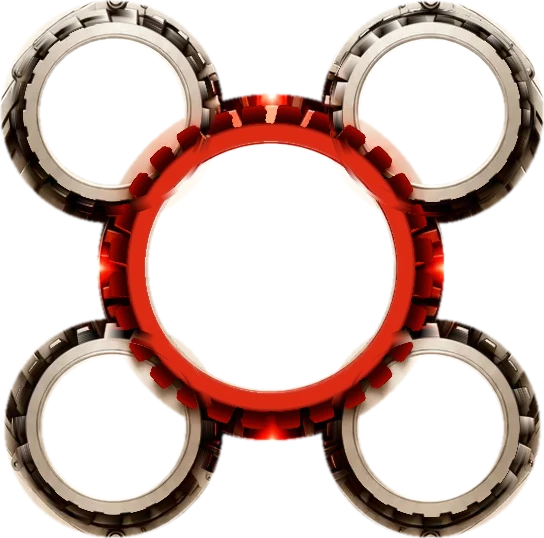
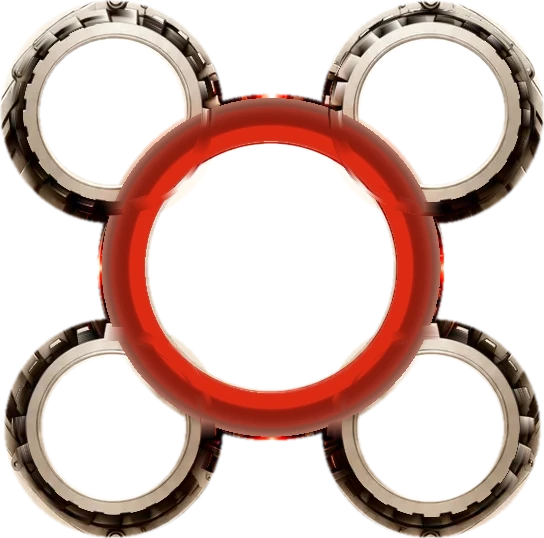
Machine artwork: clean faint smudges beside the pipes
The background removal left near-transparent specks beside the machine,
which showed as faint pale smudges inside the input and output pipes on
a light page. The pipeline now drops near-transparent, non-red pixels
clear of the machine's solid parts (the red pipe glow is kept), and the
desktop and mobile body layers are rebuilt.

Claude-Session: https://claude.ai/code/session_01PbAnrJaT2h2NzokuXUFqJZ

Changed region(s): [[0.1875, 0.1784, 0.8125, 0.8327]]

diff --git a/tools/machine/build_machine.py b/tools/machine/build_machine.py
@@ -577,7 +577,18 @@ def build(kind, cfg):
     # unpremultiply against the backdrop so the cut-out reproduces the art on cream
     F = np.where(A[..., None] > 1e-3, (clean - (1 - A[..., None]) * B) / np.maximum(A[..., None], 1e-3), 0)
     F = np.where((A[..., None] > 0.97), clean, F)
-    body = np.dstack([np.clip(F, 0, 255), A * 255])
+
+    # haze: where the backdrop estimate missed, near-transparent specks
+    # survive beside the machine and read as faint smudges on a light page.
+    # Drop them where they are clear of the machine's solid parts; the red
+    # glow round the pipes (strongly red) is kept.
+    Fc = np.clip(F, 0, 255)
+    redness = Fc[..., 0] - Fc[..., 1:].max(2)
+    away = cv2.distanceTransform((A < 0.9).astype(np.uint8), cv2.DIST_L2, 5) > 6
+    haze = (A < 0.1) & (redness < 70) & away
+    haze = cv2.GaussianBlur(haze.astype(np.float32), (0, 0), 1.5)
+    A = A * (1 - np.clip(haze * 1.6, 0, 1))
+    body = np.dstack([Fc, A * 255])
 
     x0, y0, x1, y1 = cfg["crop"]
     out_dir = os.path.join(OUT_IMG, kind)
